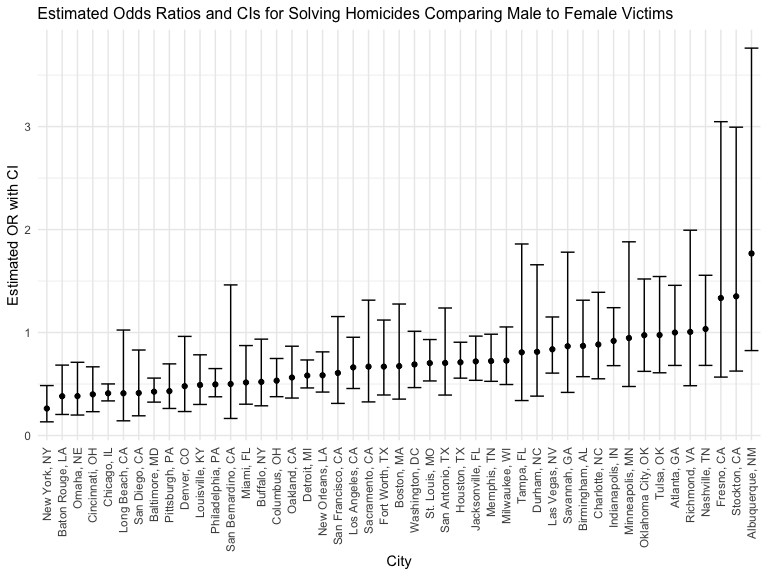
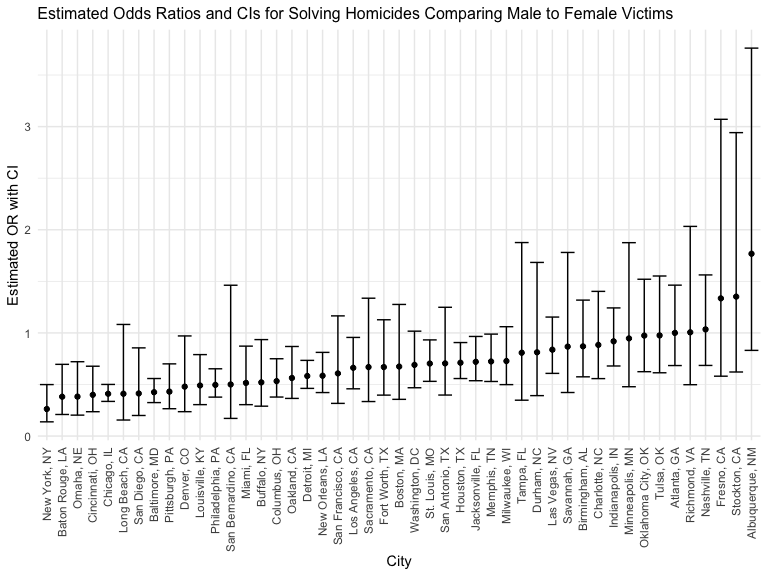
final modify at some details

diff --git a/p8105_hw6_yj2687.md b/p8105_hw6_yj2687.md
@@ -86,7 +86,7 @@ even in tough cases.
 homicide_url = "https://raw.githubusercontent.com/washingtonpost/data-homicides/master/homicide-data.csv"
 homicide_raw = read_csv(url(homicide_url)) 
 
-# Clean dataset
+# Clean the dataset
 # Create variables city_state, resolved;
 # Omit cities without victim race reports and error city;
 # Limit victim_race to white or black
@@ -112,10 +112,10 @@ baltimore_logistic = homicide_df %>%
 
 # Obtain the estimate and CI of the adjusted odds ratio for solving homicides
 baltimore_logistic_summary = baltimore_logistic %>% 
-  broom::tidy(conf.int = T) %>% 
+  broom::tidy() %>% 
   mutate(OR = exp(estimate),
-         CI_lower = exp(conf.low),
-         CI_upper = exp(conf.high)) %>% 
+         CI_lower = exp(estimate - 1.96 * std.error),
+         CI_upper = exp(estimate + 1.96 * std.error)) %>% 
   select(term, OR, CI_lower,CI_upper)
 
 baltimore_logistic_summary
@@ -124,10 +124,10 @@ baltimore_logistic_summary
     ## # A tibble: 4 × 4
     ##   term                OR CI_lower CI_upper
     ##   <chr>            <dbl>    <dbl>    <dbl>
-    ## 1 (Intercept)      3.16     2.00     5.06 
+    ## 1 (Intercept)      3.16     1.99     5.03 
     ## 2 victim_age       0.993    0.987    1.00 
-    ## 3 victim_raceBlack 0.431    0.305    0.606
-    ## 4 victim_sexMale   0.426    0.324    0.558
+    ## 3 victim_raceBlack 0.431    0.306    0.607
+    ## 4 victim_sexMale   0.426    0.325    0.558
 
 ``` r
 # Comparing male victims to female victims keeping all other variables fixed
@@ -140,8 +140,11 @@ baltimore_logistic_summary %>%
 
 | Term             | Estimated adjusted OR | Lower bound of 95%CI | Upper bound of 95%CI |
 |:-----------------|:---------------------:|:--------------------:|:--------------------:|
-| Victim Sex: Male |         0.426         |        0.324         |        0.558         |
+| Victim Sex: Male |         0.426         |        0.325         |        0.558         |
 
+-   Holding all other variables constant, the estimate of the adjusted
+    odds ratio for solving homicides is 0.426 comparing male victims to
+    female victims with 95% CI of (0.325, 0.558).
 -   For the city of Baltimore, MD, controlling for all other variables,
     the homicides whose victim is male are less like to be resolved than
     those whose victim is female.
@@ -152,13 +155,13 @@ allcities_logistic = homicide_df %>%
   nest(data = -city_state) %>% 
   mutate(
     models = map(data, ~glm(resolved ~ victim_age + victim_race + victim_sex, data = ., family = binomial())),
-    results = map(models, ~broom::tidy(.x, conf.int = T))) %>% 
+    results = map(models, ~broom::tidy(.x))) %>% 
   select(city_state, results) %>% 
   unnest(results) %>% 
   mutate(
     OR = exp(estimate),
-    CI_lower = exp(conf.low),
-    CI_upper = exp(conf.high),
+    CI_lower = exp(estimate - 1.96 * std.error),
+    CI_upper = exp(estimate + 1.96 * std.error),
   ) %>% 
   filter(term == "victim_sexMale") %>% 
   select(city_state, OR, CI_lower, CI_upper) 
@@ -169,53 +172,53 @@ allcities_logistic %>%
 
 | City               | Estimated adjusted OR | Lower bound of 95%CI | Upper bound of 95%CI |
 |:-------------------|:----------------------|:--------------------:|:--------------------:|
-| Albuquerque, NM    | 1.767                 |        0.825         |        3.762         |
-| Atlanta, GA        | 1.000                 |        0.680         |        1.458         |
-| Baltimore, MD      | 0.426                 |        0.324         |        0.558         |
-| Baton Rouge, LA    | 0.381                 |        0.204         |        0.684         |
-| Birmingham, AL     | 0.870                 |        0.571         |        1.314         |
-| Boston, MA         | 0.674                 |        0.353         |        1.277         |
-| Buffalo, NY        | 0.521                 |        0.288         |        0.936         |
-| Charlotte, NC      | 0.884                 |        0.551         |        1.391         |
+| Albuquerque, NM    | 1.767                 |        0.831         |        3.761         |
+| Atlanta, GA        | 1.000                 |        0.684         |        1.463         |
+| Baltimore, MD      | 0.426                 |        0.325         |        0.558         |
+| Baton Rouge, LA    | 0.381                 |        0.209         |        0.695         |
+| Birmingham, AL     | 0.870                 |        0.574         |        1.318         |
+| Boston, MA         | 0.674                 |        0.356         |        1.276         |
+| Buffalo, NY        | 0.521                 |        0.290         |        0.935         |
+| Charlotte, NC      | 0.884                 |        0.557         |        1.403         |
 | Chicago, IL        | 0.410                 |        0.336         |        0.501         |
-| Cincinnati, OH     | 0.400                 |        0.231         |        0.667         |
-| Columbus, OH       | 0.532                 |        0.377         |        0.748         |
-| Denver, CO         | 0.479                 |        0.233         |        0.962         |
+| Cincinnati, OH     | 0.400                 |        0.236         |        0.677         |
+| Columbus, OH       | 0.532                 |        0.378         |        0.750         |
+| Denver, CO         | 0.479                 |        0.236         |        0.971         |
 | Detroit, MI        | 0.582                 |        0.462         |        0.734         |
-| Durham, NC         | 0.812                 |        0.382         |        1.658         |
-| Fort Worth, TX     | 0.669                 |        0.394         |        1.121         |
-| Fresno, CA         | 1.335                 |        0.567         |        3.048         |
-| Houston, TX        | 0.711                 |        0.557         |        0.906         |
-| Indianapolis, IN   | 0.919                 |        0.678         |        1.241         |
-| Jacksonville, FL   | 0.720                 |        0.536         |        0.965         |
-| Las Vegas, NV      | 0.837                 |        0.606         |        1.151         |
-| Long Beach, CA     | 0.410                 |        0.143         |        1.024         |
-| Los Angeles, CA    | 0.662                 |        0.457         |        0.954         |
-| Louisville, KY     | 0.491                 |        0.301         |        0.784         |
-| Memphis, TN        | 0.723                 |        0.526         |        0.984         |
-| Miami, FL          | 0.515                 |        0.304         |        0.873         |
-| Milwaukee, WI      | 0.727                 |        0.495         |        1.054         |
-| Minneapolis, MN    | 0.947                 |        0.476         |        1.881         |
-| Nashville, TN      | 1.034                 |        0.681         |        1.556         |
-| New Orleans, LA    | 0.585                 |        0.422         |        0.812         |
-| New York, NY       | 0.262                 |        0.133         |        0.485         |
-| Oakland, CA        | 0.563                 |        0.364         |        0.867         |
-| Oklahoma City, OK  | 0.974                 |        0.623         |        1.520         |
-| Omaha, NE          | 0.382                 |        0.199         |        0.711         |
-| Philadelphia, PA   | 0.496                 |        0.376         |        0.650         |
-| Pittsburgh, PA     | 0.431                 |        0.263         |        0.696         |
-| Richmond, VA       | 1.006                 |        0.483         |        1.994         |
-| San Antonio, TX    | 0.705                 |        0.393         |        1.238         |
-| Sacramento, CA     | 0.669                 |        0.326         |        1.314         |
-| Savannah, GA       | 0.867                 |        0.419         |        1.780         |
-| San Bernardino, CA | 0.500                 |        0.166         |        1.462         |
-| San Diego, CA      | 0.413                 |        0.191         |        0.830         |
-| San Francisco, CA  | 0.608                 |        0.312         |        1.155         |
+| Durham, NC         | 0.812                 |        0.392         |        1.683         |
+| Fort Worth, TX     | 0.669                 |        0.397         |        1.127         |
+| Fresno, CA         | 1.335                 |        0.580         |        3.071         |
+| Houston, TX        | 0.711                 |        0.558         |        0.907         |
+| Indianapolis, IN   | 0.919                 |        0.679         |        1.242         |
+| Jacksonville, FL   | 0.720                 |        0.537         |        0.966         |
+| Las Vegas, NV      | 0.837                 |        0.608         |        1.154         |
+| Long Beach, CA     | 0.410                 |        0.156         |        1.082         |
+| Los Angeles, CA    | 0.662                 |        0.458         |        0.956         |
+| Louisville, KY     | 0.491                 |        0.305         |        0.790         |
+| Memphis, TN        | 0.723                 |        0.529         |        0.988         |
+| Miami, FL          | 0.515                 |        0.304         |        0.872         |
+| Milwaukee, WI      | 0.727                 |        0.499         |        1.060         |
+| Minneapolis, MN    | 0.947                 |        0.478         |        1.875         |
+| Nashville, TN      | 1.034                 |        0.685         |        1.562         |
+| New Orleans, LA    | 0.585                 |        0.422         |        0.811         |
+| New York, NY       | 0.262                 |        0.138         |        0.499         |
+| Oakland, CA        | 0.563                 |        0.365         |        0.868         |
+| Oklahoma City, OK  | 0.974                 |        0.624         |        1.520         |
+| Omaha, NE          | 0.382                 |        0.203         |        0.721         |
+| Philadelphia, PA   | 0.496                 |        0.378         |        0.652         |
+| Pittsburgh, PA     | 0.431                 |        0.265         |        0.700         |
+| Richmond, VA       | 1.006                 |        0.498         |        2.033         |
+| San Antonio, TX    | 0.705                 |        0.398         |        1.249         |
+| Sacramento, CA     | 0.669                 |        0.335         |        1.337         |
+| Savannah, GA       | 0.867                 |        0.422         |        1.780         |
+| San Bernardino, CA | 0.500                 |        0.171         |        1.462         |
+| San Diego, CA      | 0.413                 |        0.200         |        0.855         |
+| San Francisco, CA  | 0.608                 |        0.317         |        1.165         |
 | St. Louis, MO      | 0.703                 |        0.530         |        0.932         |
-| Stockton, CA       | 1.352                 |        0.626         |        2.994         |
-| Tampa, FL          | 0.808                 |        0.340         |        1.860         |
-| Tulsa, OK          | 0.976                 |        0.609         |        1.544         |
-| Washington, DC     | 0.690                 |        0.465         |        1.012         |
+| Stockton, CA       | 1.352                 |        0.621         |        2.942         |
+| Tampa, FL          | 0.808                 |        0.348         |        1.876         |
+| Tulsa, OK          | 0.976                 |        0.614         |        1.552         |
+| Washington, DC     | 0.690                 |        0.468         |        1.017         |
 
 ``` r
 # Create a plot showing the estimated ORs and CIs for each city
@@ -235,11 +238,14 @@ allcities_logistic %>%
 -   Holding all other variables constant, for most cities, homicides in
     which victim is male are less likely to be resolved than those in
     which the victim is female, as we can observe that most of the
-    estimated odds ratios for solving homicides are less than 1. In
-    particular, for those where OR is less than 1 and CI fail to include
-    1, such as New York and Chicago, we can safely say that homicide
-    cases with male victims are significantly less likely to be resolved
-    compared to those with female victims.
+    estimated odds ratios for solving homicides are less than 1.
+-   In particular, for those where OR is less than 1 and CI fail to
+    include 1, such as New York and Chicago, we can safely say that
+    homicide cases with male victims are significantly less likely to be
+    resolved compared to those with female victims.
+-   However, for those whose CI includes 1, such as Stockton and
+    Albuquerque, we cannot immediately tell that the homicide cases with
+    male and female victims are solved at no apparent difference.
 
  
 
@@ -253,8 +259,8 @@ birthweight_raw <- read_csv("./p8105_hw6_data/birthweight.csv")
 birthweight_df = birthweight_raw %>% 
   janitor::clean_names() %>%
   mutate(across(.cols = c(babysex, malform, frace, mrace), as.factor)) %>% 
-  mutate(babysex = ifelse(babysex == "1", "male","female"),
-         malform = ifelse(malform == "0", "absent","present"),
+  mutate(babysex = ifelse(babysex == "1", "Male","Female"),
+         malform = ifelse(malform == "0", "Absent","Present"),
          frace = recode(frace, "1" = "White", "2" = "Black", "3" = "Asian", "4" = "Puerto Rican", "8" = "Other", "9" = "Unknown"),
          mrace = recode(mrace, "1" = "White", "2" = "Black", "3" = "Asian", "4" = "Puerto Rican", "8" = "Other"))
 
@@ -556,7 +562,7 @@ step(mult.fit, direction = "both", k = 2)
     ##     gaweeks + mheight + mrace + parity + ppwt + smoken, data = birthweight_df)
     ## 
     ## Coefficients:
-    ##       (Intercept)        babysexmale              bhead            blength  
+    ##       (Intercept)        babysexMale              bhead            blength  
     ##         -6070.264            -28.558            130.777             74.947  
     ##             delwt            fincome            gaweeks            mheight  
     ##             4.107              0.318             11.592              6.594  
@@ -589,7 +595,7 @@ summary(model_fit1)
     ## Coefficients:
     ##                     Estimate Std. Error t value Pr(>|t|)    
     ## (Intercept)       -6070.2639   136.9081 -44.338  < 2e-16 ***
-    ## babysexmale         -28.5580     8.4549  -3.378 0.000737 ***
+    ## babysexMale         -28.5580     8.4549  -3.378 0.000737 ***
     ## bhead               130.7770     3.4466  37.944  < 2e-16 ***
     ## blength              74.9471     2.0190  37.120  < 2e-16 ***
     ## delwt                 4.1067     0.3921  10.475  < 2e-16 ***
@@ -610,7 +616,8 @@ summary(model_fit1)
     ## F-statistic: 848.1 on 13 and 4328 DF,  p-value: < 2.2e-16
 
 -   After looking at the summary, I found out the p-value of `fincome`
-    is greater than 0.05 and hence I am going to drop it.
+    is greater than 0.05 and hence I am going to remove it from my
+    model.
 
 ``` r
 # Check correlation between predictors and the selected continuous variables
@@ -644,7 +651,7 @@ summary(model_fit2)
     ## Coefficients:
     ##                     Estimate Std. Error t value Pr(>|t|)    
     ## (Intercept)       -5298.2546   156.2679 -33.905  < 2e-16 ***
-    ## babysexmale         -21.2733     9.7599  -2.180   0.0293 *  
+    ## babysexMale         -21.2733     9.7599  -2.180   0.0293 *  
     ## bhead               199.8843     3.3751  59.224  < 2e-16 ***
     ## delwt                 2.7566     0.2423  11.375  < 2e-16 ***
     ## gaweeks              20.8795     1.6628  12.557  < 2e-16 ***
@@ -684,7 +691,7 @@ summary(model_fit3)
     ## Coefficients:
     ##                     Estimate Std. Error t value Pr(>|t|)    
     ## (Intercept)       -5288.6892   156.2094 -33.856  < 2e-16 ***
-    ## babysexmale         -21.7498     9.7584  -2.229   0.0259 *  
+    ## babysexMale         -21.7498     9.7584  -2.229   0.0259 *  
     ## bhead               199.9740     3.3755  59.243  < 2e-16 ***
     ## delwt                 2.7599     0.2424  11.386  < 2e-16 ***
     ## gaweeks              20.6460     1.6578  12.454  < 2e-16 ***
@@ -720,27 +727,81 @@ birthweight_df %>%
 -   The residuals vs. fitted values plot can be used to assess constant
     variance in the data. From the plot above, we can observe a outlier
     with residual greater than 2000 and a cluster around 0 towards the
-    higher end of the fitted values. It looks like a nonconstant
-    variance plot as the spread of the residuals fails to be roughly
-    equal at each level of the fitted values. Thus, we will say that the
-    constant variance assumption is violated.
+    higher end of the fitted values, between 2000 and 4000. It looks
+    like a nonconstant variance plot as the spread of the residuals
+    fails to be roughly equal at each level of the fitted values. Thus,
+    we will say that the constant variance assumption is violated.
 
 ``` r
 # Model using length at birth and gestational age as predictors (main effects only)
 comp_fit1 = lm(bwt ~ blength + gaweeks, data = birthweight_df)
+summary(comp_fit1)
+```
 
+    ## 
+    ## Call:
+    ## lm(formula = bwt ~ blength + gaweeks, data = birthweight_df)
+    ## 
+    ## Residuals:
+    ##     Min      1Q  Median      3Q     Max 
+    ## -1709.6  -215.4   -11.4   208.2  4188.8 
+    ## 
+    ## Coefficients:
+    ##              Estimate Std. Error t value Pr(>|t|)    
+    ## (Intercept) -4347.667     97.958  -44.38   <2e-16 ***
+    ## blength       128.556      1.990   64.60   <2e-16 ***
+    ## gaweeks        27.047      1.718   15.74   <2e-16 ***
+    ## ---
+    ## Signif. codes:  0 '***' 0.001 '**' 0.01 '*' 0.05 '.' 0.1 ' ' 1
+    ## 
+    ## Residual standard error: 333.2 on 4339 degrees of freedom
+    ## Multiple R-squared:  0.5769, Adjusted R-squared:  0.5767 
+    ## F-statistic:  2958 on 2 and 4339 DF,  p-value: < 2.2e-16
+
+``` r
 # Model using head circumference, length, sex, and all interactions (including the three-way interaction) between these
 comp_fit2 = lm(bwt ~ bhead + blength + babysex + bhead*blength + bhead*babysex + blength*babysex + bhead*blength*babysex, data = birthweight_df)
+summary(comp_fit2)
 ```
+
+    ## 
+    ## Call:
+    ## lm(formula = bwt ~ bhead + blength + babysex + bhead * blength + 
+    ##     bhead * babysex + blength * babysex + bhead * blength * babysex, 
+    ##     data = birthweight_df)
+    ## 
+    ## Residuals:
+    ##      Min       1Q   Median       3Q      Max 
+    ## -1132.99  -190.42   -10.33   178.63  2617.96 
+    ## 
+    ## Coefficients:
+    ##                             Estimate Std. Error t value Pr(>|t|)    
+    ## (Intercept)                -801.9487  1102.3077  -0.728 0.466948    
+    ## bhead                       -16.5975    34.0916  -0.487 0.626388    
+    ## blength                     -21.6460    23.3720  -0.926 0.354421    
+    ## babysexMale               -6374.8684  1677.7669  -3.800 0.000147 ***
+    ## bhead:blength                 3.3244     0.7126   4.666 3.17e-06 ***
+    ## bhead:babysexMale           198.3932    51.0917   3.883 0.000105 ***
+    ## blength:babysexMale         123.7729    35.1185   3.524 0.000429 ***
+    ## bhead:blength:babysexMale    -3.8781     1.0566  -3.670 0.000245 ***
+    ## ---
+    ## Signif. codes:  0 '***' 0.001 '**' 0.01 '*' 0.05 '.' 0.1 ' ' 1
+    ## 
+    ## Residual standard error: 287.7 on 4334 degrees of freedom
+    ## Multiple R-squared:  0.6849, Adjusted R-squared:  0.6844 
+    ## F-statistic:  1346 on 7 and 4334 DF,  p-value: < 2.2e-16
 
 ``` r
 # Make a comparison with two other models in terms of the cross-validated prediction error
+# Set a seed
+set.seed(123)
+
 # Cross Validation
 cv_df =
   crossv_mc(birthweight_df, 100) %>% 
   mutate(train = map(train, as_tibble),
          test = map(test, as_tibble)) %>% 
-  mutate(model1 = map(train, ~lm(bwt ~ babysex + bhead + delwt + gaweeks + mheight + mrace + smoken, data = as_tibble(.x))),
+  mutate(model1 = map(train, ~lm(bwt ~ babysex + bhead + delwt + gaweeks + mheight + mrace + smoken, data = .x)),
          model2 = map(train, ~lm(bwt ~ blength + gaweeks, data = .x)),
          model3 = map(train, ~lm(bwt ~ bhead + blength + babysex + bhead*blength + bhead*babysex + blength*babysex + bhead*blength*babysex, data = .x))) %>% 
   mutate(rmse_model1 = map2_dbl(model1, test, ~rmse(model = .x, data = .y)),
@@ -759,7 +820,7 @@ cv_df %>%
   geom_violin() +
   labs(x = "Model", y = "Root Mean Square Error (RMSE)",
        title = "Model Comparison of the Cross-Validated Prediction Error") +
-  scale_x_discrete(labels = c("My model", "Model with Main effects", "Model with Interactions"))
+  scale_x_discrete(labels = c("My Model", "Model with Main effects", "Model with Interactions"))
 ```
 
 <img src="p8105_hw6_yj2687_files/figure-gfm/unnamed-chunk-16-1.png" width="90%" />
